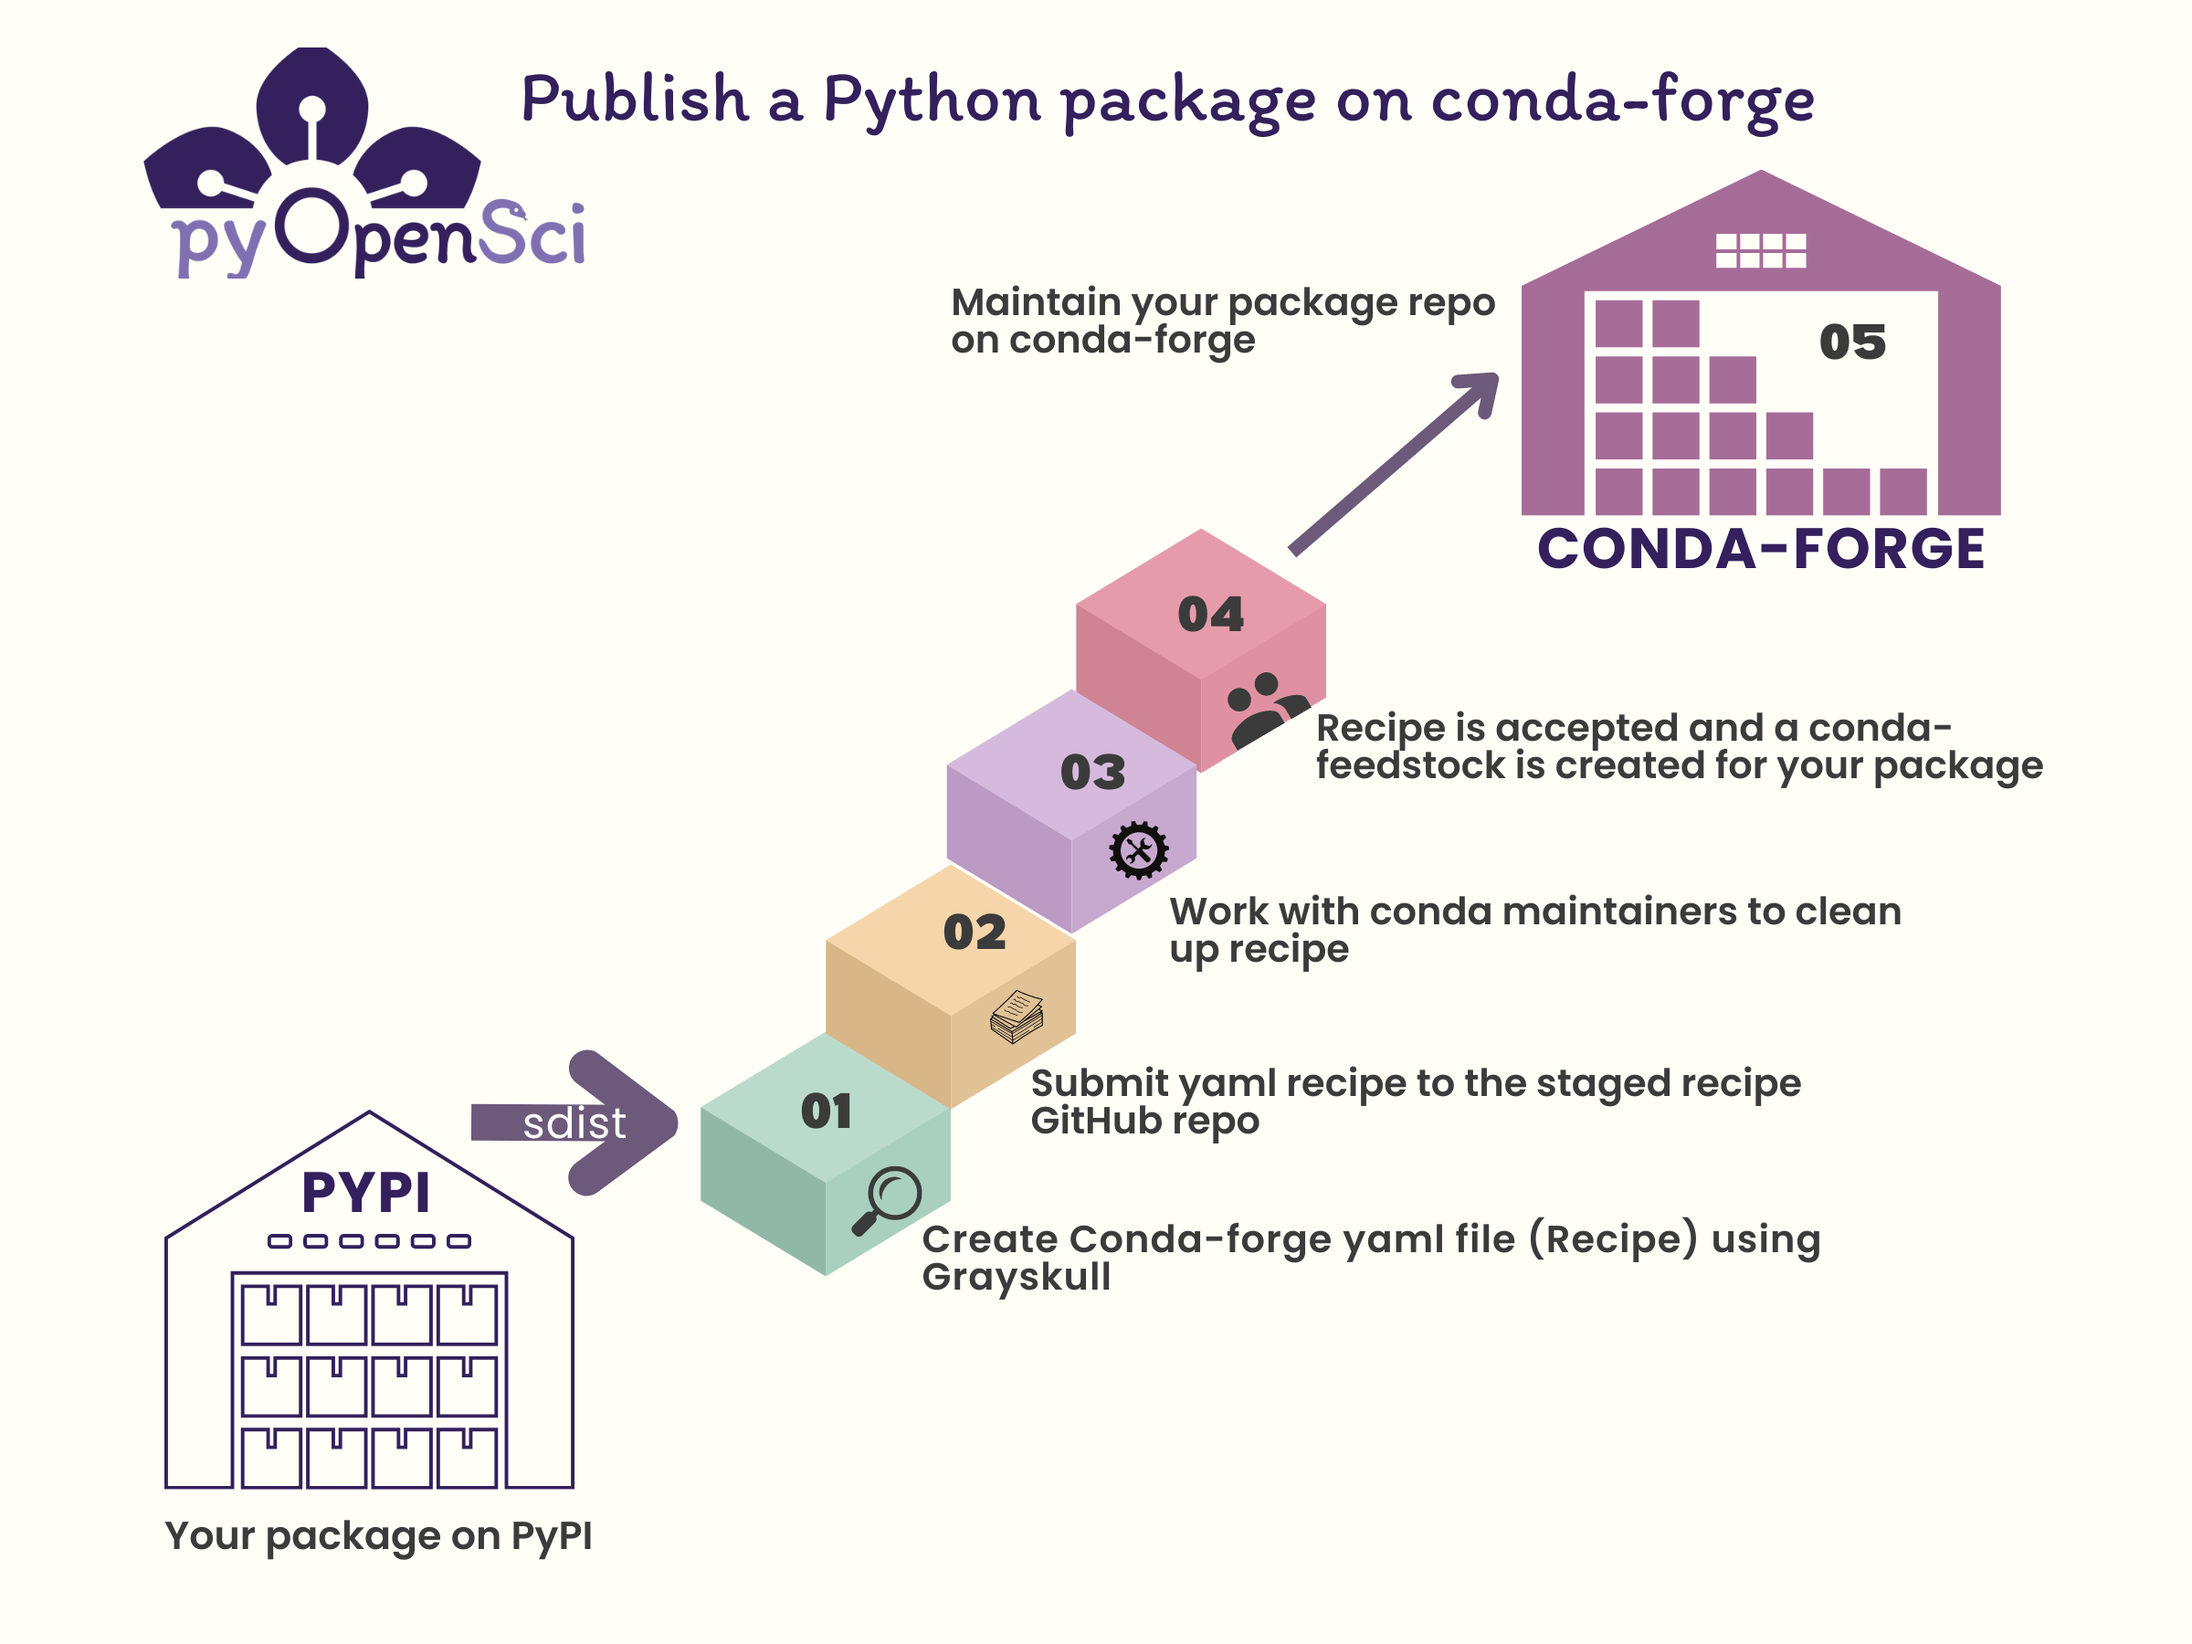
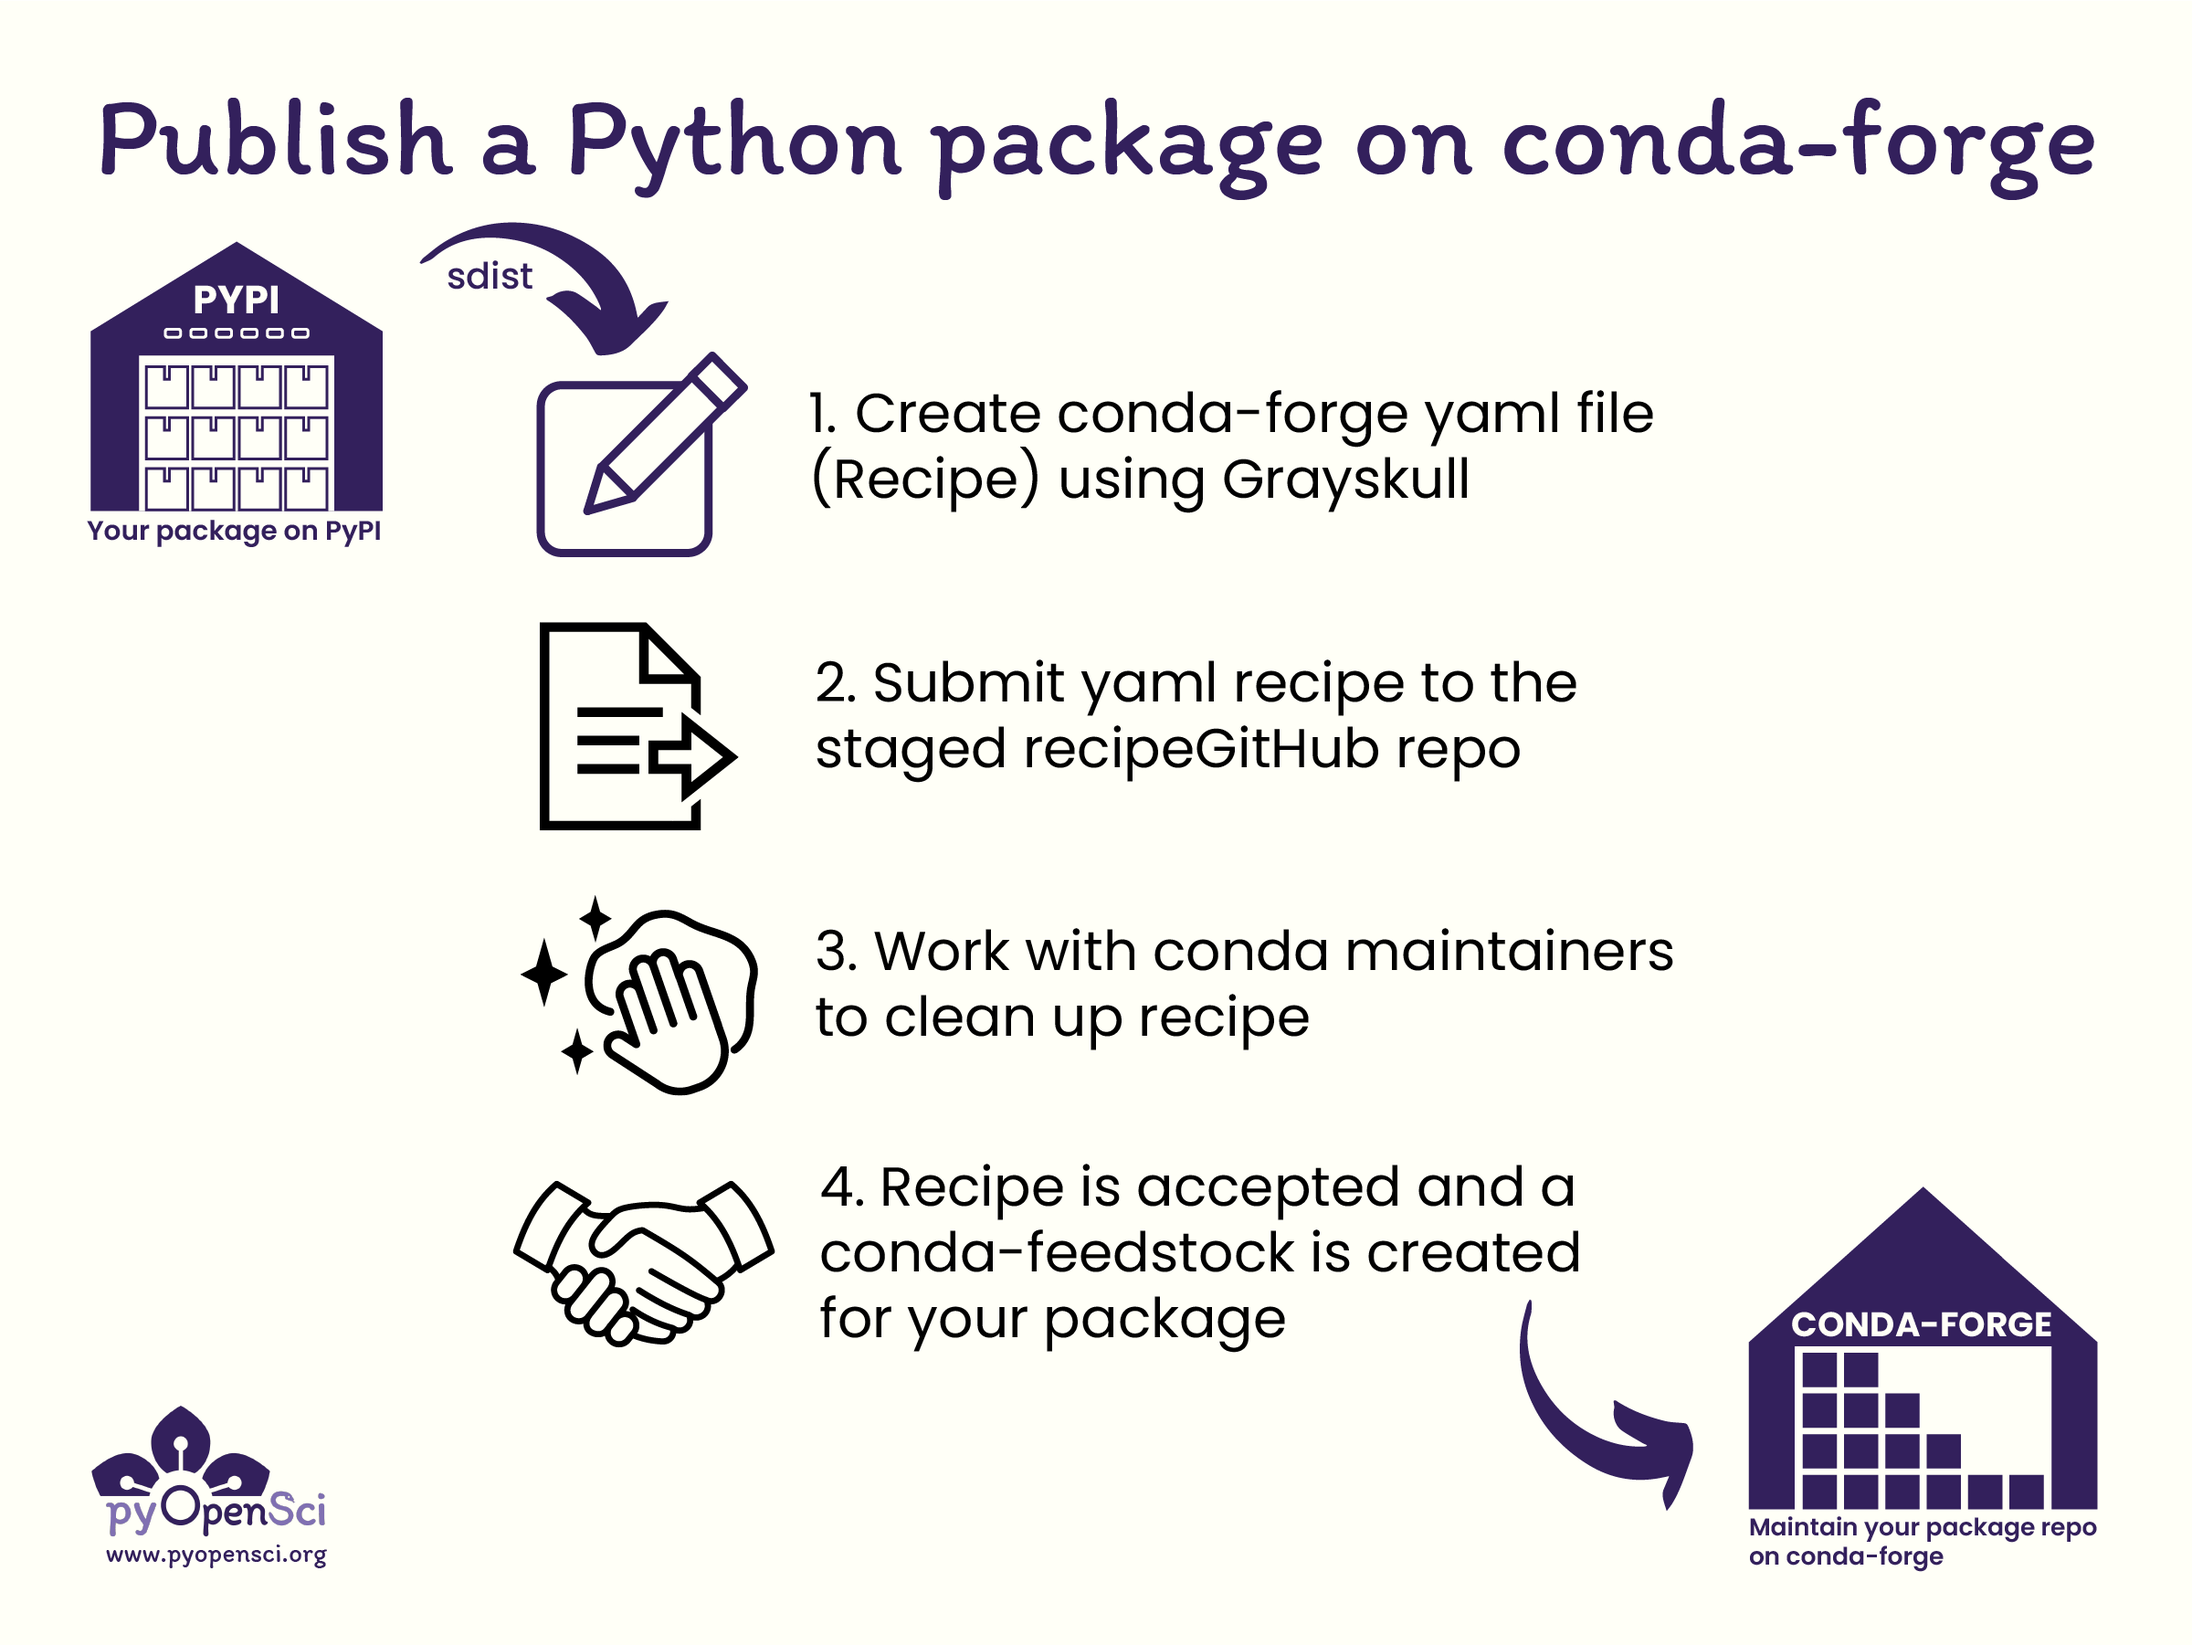
fix: new images

Changed region(s): [[0.0312, 0.0311, 0.9688, 0.9644]]

diff --git a/tutorials/publish-conda-forge.md b/tutorials/publish-conda-forge.md
@@ -30,7 +30,7 @@ for conda, conda-forge will build from your PyPI source distribution file (sdist
 
 
 
-:::{figure-md} pypi-conda-channels
+:::{figure-md} pypi-conda-publication
 
 <img src="../images/publish-python-package-pypi-conda.png" alt="Image showing the progression of creating a Python package, building it and then publishing to PyPI and conda-forge. You take your code and turn it into distribution files (sdist and wheel) that PyPI accepts. then there is an arrow towards the PyPI repository where ou publish both distributions. From PyPI if you create a conda-forge recipe you can then publish to conda-forge. " width="700px">
 
